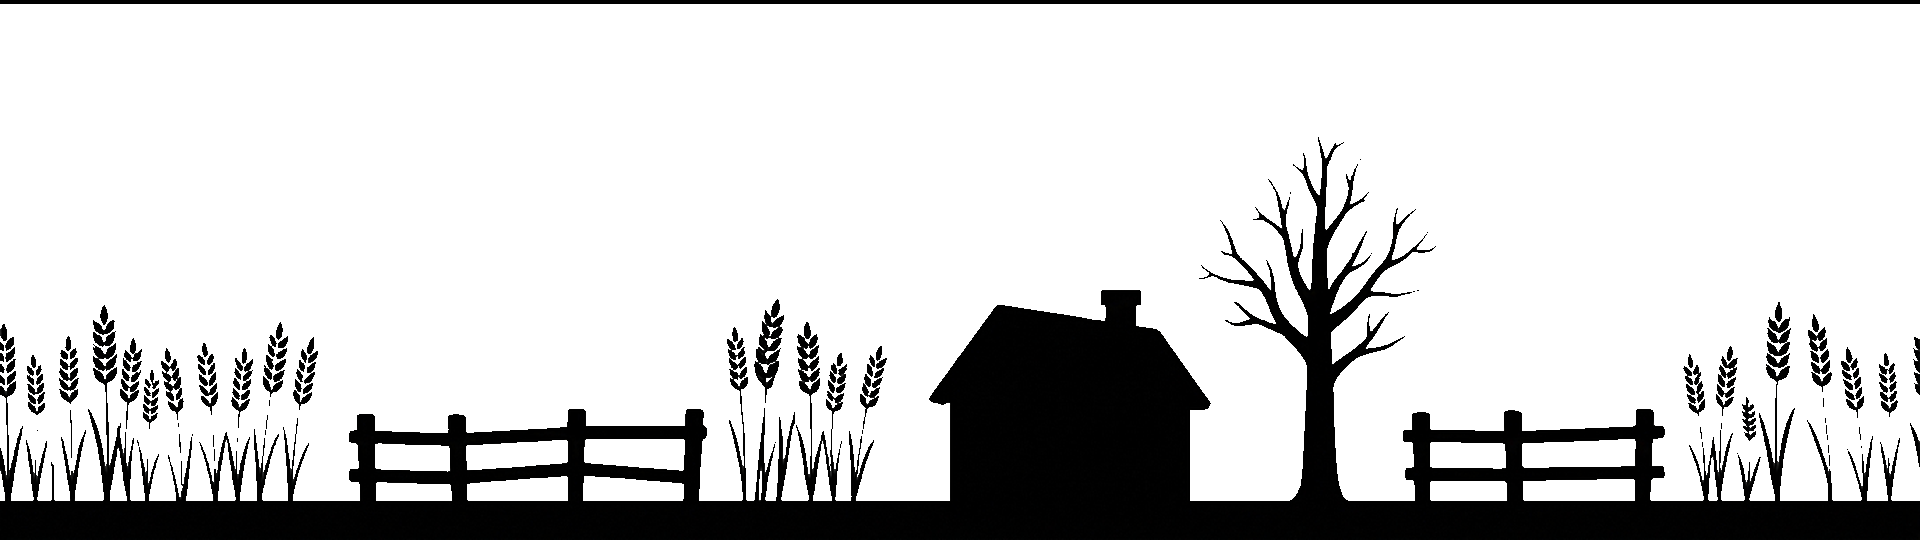
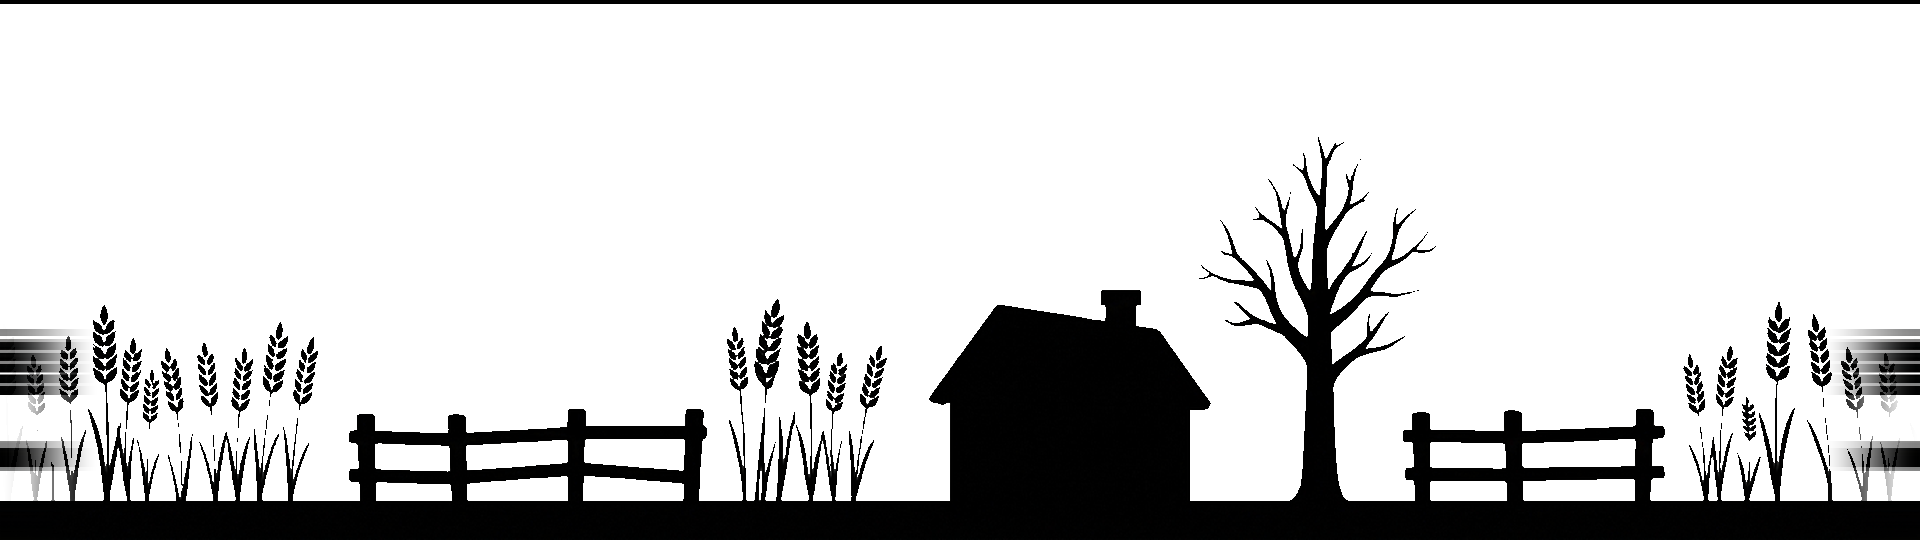
fix(WyrmsEnd): 背景管线三修——接缝平滑、中景剪影提色防隐身、色调改暖冷单调渐变
- process-bg 新增 wrapBlend：远/中景左右边缘 smoothstep 融向缝值，消除平铺硬缝；抠绿像素 RGB 清零防融合时绿边渗色
- 中景剪影 screen 提色（MID_LIFT）：焦土/骨原/龙巢件从纯黑提到段专属深色，角色保持全场最黑不再隐身；山隘因与远景雪山阴影撞亮度改烘进原图
- 玩家渐染 PALETTE 与降级背景 BG_FALLBACK 统一为 100%→0% 暖度单调渐变（麦田暖金→龙巢炭黑）
- 暗角 0.6→0.3、换段雾峰值 0.55→0.22，减轻画面压暗
- 10 张 seg 背景按新管线重新生成

diff --git a/game_runs/WyrmsEnd/game/config.js b/game_runs/WyrmsEnd/game/config.js
@@ -96,18 +96,18 @@ Forge.ENEMY_MIX = { ratio: 0.45, accent: 0x8a2c18 };
 
 // 玩家粒子渐染色：按世界 x 分段取（旅途即堕落，颜色随推进渐染，索引=段）
 Forge.C.PALETTE = [
-  { ratio: 0.25, accent: 0xc08a3a },   // 第一段 · 麦田暖金
-  { ratio: 0.4,  accent: 0x6a6258 },   // 第二段 · 战场灰烬
-  { ratio: 0.5,  accent: 0x3a6ea8 },   // 第三段 · 隘口冷蓝
-  { ratio: 0.65, accent: 0xb03a1a },   // 第四段 · 骨原暗红
-  { ratio: 0.8,  accent: 0xd8a03a },   // 第五段 · 龙巢熔金
+  { ratio: 0.25, accent: 0xc08a3a },   // 第一段 · 麦田暖金 (100% 暖)
+  { ratio: 0.4,  accent: 0xa2855b },   // 第二段 · 战场沙金 (75% 暖)
+  { ratio: 0.5,  accent: 0x807a70 },   // 第三段 · 隘口石灰 (50% 暖)
+  { ratio: 0.65, accent: 0x6a6258 },   // 第四段 · 骨原冷灰 (25% 暖)
+  { ratio: 0.8,  accent: 0x4a443f },   // 第五段 · 龙巢炭黑 (0% 暖)
 ];
 
 // 程序化降级背景的每段配色（agy 真图到位后自动被替换，键名一致）
 Forge.BG_FALLBACK = [
-  { sky: ['#2a1a10', '#1a0f0a', '#0a0605'], hill: '#120a06', hill2: '#0a0504', mid: '#0e0805' },   // 麦田黄昏
-  { sky: ['#1c1a18', '#12100e', '#080706'], hill: '#0e0c0a', hill2: '#080706', mid: '#0a0908' },   // 焦土
-  { sky: ['#10141f', '#0a0d16', '#05070c'], hill: '#0a0d14', hill2: '#06080d', mid: '#0a0c12' },   // 山隘
-  { sky: ['#1a0c08', '#100705', '#080303'], hill: '#0e0604', hill2: '#080302', mid: '#0c0503' },   // 骨原
-  { sky: ['#14202b', '#1c1408', '#0a0703'], hill: '#0c0805', hill2: '#070402', mid: '#0e0a04' },   // 龙巢（上暗下金）
+  { sky: ['#4a3220', '#2d1b11', '#170c08'], hill: '#24150c', hill2: '#170c08', mid: '#1e100a' },   // 第1段 (100% 暖)
+  { sky: ['#3e2d20', '#261b13', '#150f0b'], hill: '#20160d', hill2: '#150f0b', mid: '#1b120c' },   // 第2段 (75% 暖)
+  { sky: ['#332d28', '#201c19', '#12100e'], hill: '#1b1714', hill2: '#12100e', mid: '#161311' },   // 第3段 (50% 暖)
+  { sky: ['#282624', '#191817', '#0f0e0d'], hill: '#151413', hill2: '#0f0e0d', mid: '#11100f' },   // 第4段 (25% 暖)
+  { sky: ['#1c1a18', '#12100e', '#080706'], hill: '#0e0c0a', hill2: '#080706', mid: '#0a0908' },   // 第5段 (0% 暖)
 ];

diff --git a/game_runs/WyrmsEnd/game/scenes/JourneyScene.js b/game_runs/WyrmsEnd/game/scenes/JourneyScene.js
@@ -64,7 +64,7 @@ class JourneyScene extends Phaser.Scene {
     if (!this.textures.exists('vign')) {
       const cv = this.textures.createCanvas('vign', W, H), ctx = cv.getContext();
       const rg = ctx.createRadialGradient(W / 2, H / 2, H * 0.42, W / 2, H / 2, H * 0.95);
-      rg.addColorStop(0, 'rgba(0,0,0,0)'); rg.addColorStop(1, 'rgba(0,0,0,0.6)');
+      rg.addColorStop(0, 'rgba(0,0,0,0)'); rg.addColorStop(1, 'rgba(0,0,0,0.3)');
       ctx.fillStyle = rg; ctx.fillRect(0, 0, W, H);
       cv.refresh();
     }

diff --git a/game_runs/WyrmsEnd/game/systems/bg.js b/game_runs/WyrmsEnd/game/systems/bg.js
@@ -136,6 +136,6 @@ Object.assign(JourneyScene.prototype, {
     setTex(this.farA, `bg${a}_far`); setTex(this.farB, `bg${b}_far`);
     setTex(this.midA, `bg${a}_mid`); setTex(this.midB, `bg${b}_mid`);
     this.farB.setAlpha(sm); this.midB.setAlpha(sm);
-    this.fogRect.setAlpha(Math.sin(Math.PI * sm) * 0.55);
+    this.fogRect.setAlpha(Math.sin(Math.PI * sm) * 0.22);
   },
 });
